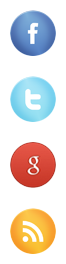
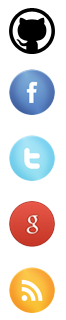
Added github link

diff --git a/posts/2011-12-8_stone-age-tribe.html b/posts/2011-12-8_stone-age-tribe.html
@@ -15,7 +15,6 @@
  
 </head> 
 <body> 
- 
   <header> 
   </header> 
  
@@ -39,7 +38,8 @@
     </ul> 
    
     <p class="author"> 
-       <a target="_blank" href="#" title="Facebook" class="facebook"> </a>   
+       <a target="_blank" href="https://github.com/qawemlilo" title="Github" class="github"> </a>  
+        
        <a target="_blank" href="http://twitter.com/ragingflameblog" title="Twitter" class="twitter"> </a>    
        <a target="_blank" href="https://plus.google.com/111595084798587457827/posts?hl=en&amp;partnerid=gplp0" title="Google" class="google"> </a>    
        <a href="/rss" title="RSS" class="rss"> </a>   

diff --git a/posts/2011-8-15_content-slider.html b/posts/2011-8-15_content-slider.html
@@ -15,7 +15,6 @@
  
 </head> 
 <body> 
- 
   <header> 
   </header> 
  
@@ -39,7 +38,8 @@
     </ul> 
    
     <p class="author"> 
-       <a target="_blank" href="#" title="Facebook" class="facebook"> </a>   
+       <a target="_blank" href="https://github.com/qawemlilo" title="Github" class="github"> </a>  
+        
        <a target="_blank" href="http://twitter.com/ragingflameblog" title="Twitter" class="twitter"> </a>    
        <a target="_blank" href="https://plus.google.com/111595084798587457827/posts?hl=en&amp;partnerid=gplp0" title="Google" class="google"> </a>    
        <a href="/rss" title="RSS" class="rss"> </a>   

diff --git a/posts/2011-8-15_lets-build-an-html5-app.html b/posts/2011-8-15_lets-build-an-html5-app.html
@@ -15,7 +15,6 @@
  
 </head> 
 <body> 
- 
   <header> 
   </header> 
  
@@ -39,7 +38,8 @@
     </ul> 
    
     <p class="author"> 
-       <a target="_blank" href="#" title="Facebook" class="facebook"> </a>   
+       <a target="_blank" href="https://github.com/qawemlilo" title="Github" class="github"> </a>  
+        
        <a target="_blank" href="http://twitter.com/ragingflameblog" title="Twitter" class="twitter"> </a>    
        <a target="_blank" href="https://plus.google.com/111595084798587457827/posts?hl=en&amp;partnerid=gplp0" title="Google" class="google"> </a>    
        <a href="/rss" title="RSS" class="rss"> </a>   

diff --git a/posts/2012-11-15_joomla-using-jrequest.html b/posts/2012-11-15_joomla-using-jrequest.html
@@ -15,7 +15,6 @@
  
 </head> 
 <body> 
- 
   <header> 
   </header> 
  
@@ -39,7 +38,8 @@
     </ul> 
    
     <p class="author"> 
-       <a target="_blank" href="#" title="Facebook" class="facebook"> </a>   
+       <a target="_blank" href="https://github.com/qawemlilo" title="Github" class="github"> </a>  
+        
        <a target="_blank" href="http://twitter.com/ragingflameblog" title="Twitter" class="twitter"> </a>    
        <a target="_blank" href="https://plus.google.com/111595084798587457827/posts?hl=en&amp;partnerid=gplp0" title="Google" class="google"> </a>    
        <a href="/rss" title="RSS" class="rss"> </a>   

diff --git a/posts/2012-11-16_creating-unique-array-keys.html b/posts/2012-11-16_creating-unique-array-keys.html
@@ -15,7 +15,6 @@
  
 </head> 
 <body> 
- 
   <header> 
   </header> 
  
@@ -39,7 +38,8 @@
     </ul> 
    
     <p class="author"> 
-       <a target="_blank" href="#" title="Facebook" class="facebook"> </a>   
+       <a target="_blank" href="https://github.com/qawemlilo" title="Github" class="github"> </a>  
+        
        <a target="_blank" href="http://twitter.com/ragingflameblog" title="Twitter" class="twitter"> </a>    
        <a target="_blank" href="https://plus.google.com/111595084798587457827/posts?hl=en&amp;partnerid=gplp0" title="Google" class="google"> </a>    
        <a href="/rss" title="RSS" class="rss"> </a>   

diff --git a/posts/2012-11-23_shout-simple-jquery-notifications.html b/posts/2012-11-23_shout-simple-jquery-notifications.html
@@ -15,7 +15,6 @@
  
 </head> 
 <body> 
- 
   <header> 
   </header> 
  
@@ -39,7 +38,8 @@
     </ul> 
    
     <p class="author"> 
-       <a target="_blank" href="#" title="Facebook" class="facebook"> </a>   
+       <a target="_blank" href="https://github.com/qawemlilo" title="Github" class="github"> </a>  
+        
        <a target="_blank" href="http://twitter.com/ragingflameblog" title="Twitter" class="twitter"> </a>    
        <a target="_blank" href="https://plus.google.com/111595084798587457827/posts?hl=en&amp;partnerid=gplp0" title="Google" class="google"> </a>    
        <a href="/rss" title="RSS" class="rss"> </a>   

diff --git a/posts/2012-4-26_this-is-why-javascript-is-awesome.html b/posts/2012-4-26_this-is-why-javascript-is-awesome.html
@@ -15,7 +15,6 @@
  
 </head> 
 <body> 
- 
   <header> 
   </header> 
  
@@ -39,7 +38,8 @@
     </ul> 
    
     <p class="author"> 
-       <a target="_blank" href="#" title="Facebook" class="facebook"> </a>   
+       <a target="_blank" href="https://github.com/qawemlilo" title="Github" class="github"> </a>  
+        
        <a target="_blank" href="http://twitter.com/ragingflameblog" title="Twitter" class="twitter"> </a>    
        <a target="_blank" href="https://plus.google.com/111595084798587457827/posts?hl=en&amp;partnerid=gplp0" title="Google" class="google"> </a>    
        <a href="/rss" title="RSS" class="rss"> </a>   

diff --git a/posts/2012-6-28_simple-form-handling-with-express-and-nodemailer.html b/posts/2012-6-28_simple-form-handling-with-express-and-nodemailer.html
@@ -15,7 +15,6 @@
  
 </head> 
 <body> 
- 
   <header> 
   </header> 
  
@@ -39,7 +38,8 @@
     </ul> 
    
     <p class="author"> 
-       <a target="_blank" href="#" title="Facebook" class="facebook"> </a>   
+       <a target="_blank" href="https://github.com/qawemlilo" title="Github" class="github"> </a>  
+        
        <a target="_blank" href="http://twitter.com/ragingflameblog" title="Twitter" class="twitter"> </a>    
        <a target="_blank" href="https://plus.google.com/111595084798587457827/posts?hl=en&amp;partnerid=gplp0" title="Google" class="google"> </a>    
        <a href="/rss" title="RSS" class="rss"> </a>   

diff --git a/posts/2012-6-7_running-nodejs-in-production-my-first-app.html b/posts/2012-6-7_running-nodejs-in-production-my-first-app.html
@@ -15,7 +15,6 @@
  
 </head> 
 <body> 
- 
   <header> 
   </header> 
  
@@ -39,7 +38,8 @@
     </ul> 
    
     <p class="author"> 
-       <a target="_blank" href="#" title="Facebook" class="facebook"> </a>   
+       <a target="_blank" href="https://github.com/qawemlilo" title="Github" class="github"> </a>  
+        
        <a target="_blank" href="http://twitter.com/ragingflameblog" title="Twitter" class="twitter"> </a>    
        <a target="_blank" href="https://plus.google.com/111595084798587457827/posts?hl=en&amp;partnerid=gplp0" title="Google" class="google"> </a>    
        <a href="/rss" title="RSS" class="rss"> </a>   

diff --git a/posts/2012-9-27_the-secret-of-happiness.html b/posts/2012-9-27_the-secret-of-happiness.html
@@ -15,7 +15,6 @@
  
 </head> 
 <body> 
- 
   <header> 
   </header> 
  
@@ -39,7 +38,8 @@
     </ul> 
    
     <p class="author"> 
-       <a target="_blank" href="#" title="Facebook" class="facebook"> </a>   
+       <a target="_blank" href="https://github.com/qawemlilo" title="Github" class="github"> </a>  
+        
        <a target="_blank" href="http://twitter.com/ragingflameblog" title="Twitter" class="twitter"> </a>    
        <a target="_blank" href="https://plus.google.com/111595084798587457827/posts?hl=en&amp;partnerid=gplp0" title="Google" class="google"> </a>    
        <a href="/rss" title="RSS" class="rss"> </a>   

diff --git a/posts/2013-2-14_roll-out-your-own-uptime-monitor-with-nodejs.html b/posts/2013-2-14_roll-out-your-own-uptime-monitor-with-nodejs.html
@@ -15,7 +15,6 @@
  
 </head> 
 <body> 
- 
   <header> 
   </header> 
  
@@ -39,7 +38,8 @@
     </ul> 
    
     <p class="author"> 
-       <a target="_blank" href="#" title="Facebook" class="facebook"> </a>   
+       <a target="_blank" href="https://github.com/qawemlilo" title="Github" class="github"> </a>  
+        
        <a target="_blank" href="http://twitter.com/ragingflameblog" title="Twitter" class="twitter"> </a>    
        <a target="_blank" href="https://plus.google.com/111595084798587457827/posts?hl=en&amp;partnerid=gplp0" title="Google" class="google"> </a>    
        <a href="/rss" title="RSS" class="rss"> </a>   

diff --git a/posts/2013-2-8_crushit.html b/posts/2013-2-8_crushit.html
@@ -15,7 +15,6 @@
  
 </head> 
 <body> 
- 
   <header> 
   </header> 
  
@@ -39,7 +38,8 @@
     </ul> 
    
     <p class="author"> 
-       <a target="_blank" href="#" title="Facebook" class="facebook"> </a>   
+       <a target="_blank" href="https://github.com/qawemlilo" title="Github" class="github"> </a>  
+        
        <a target="_blank" href="http://twitter.com/ragingflameblog" title="Twitter" class="twitter"> </a>    
        <a target="_blank" href="https://plus.google.com/111595084798587457827/posts?hl=en&amp;partnerid=gplp0" title="Google" class="google"> </a>    
        <a href="/rss" title="RSS" class="rss"> </a>   
